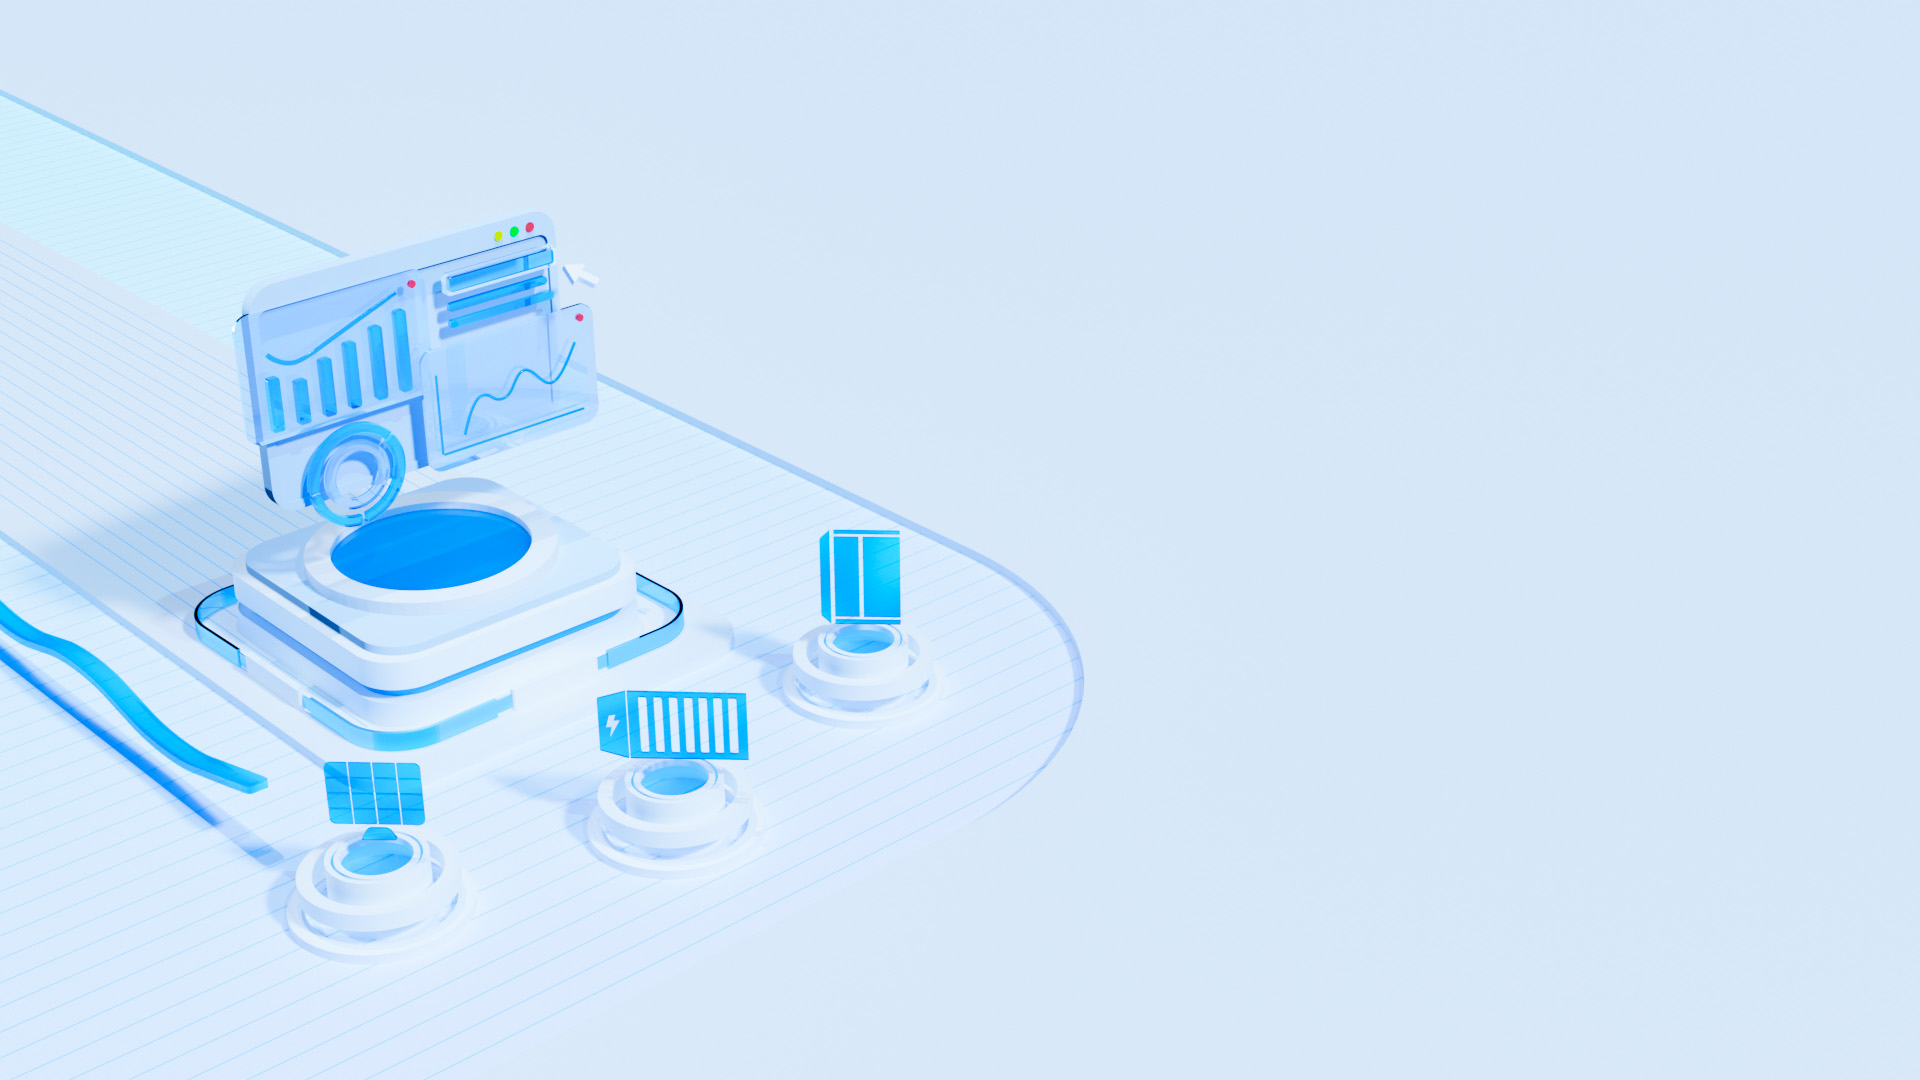
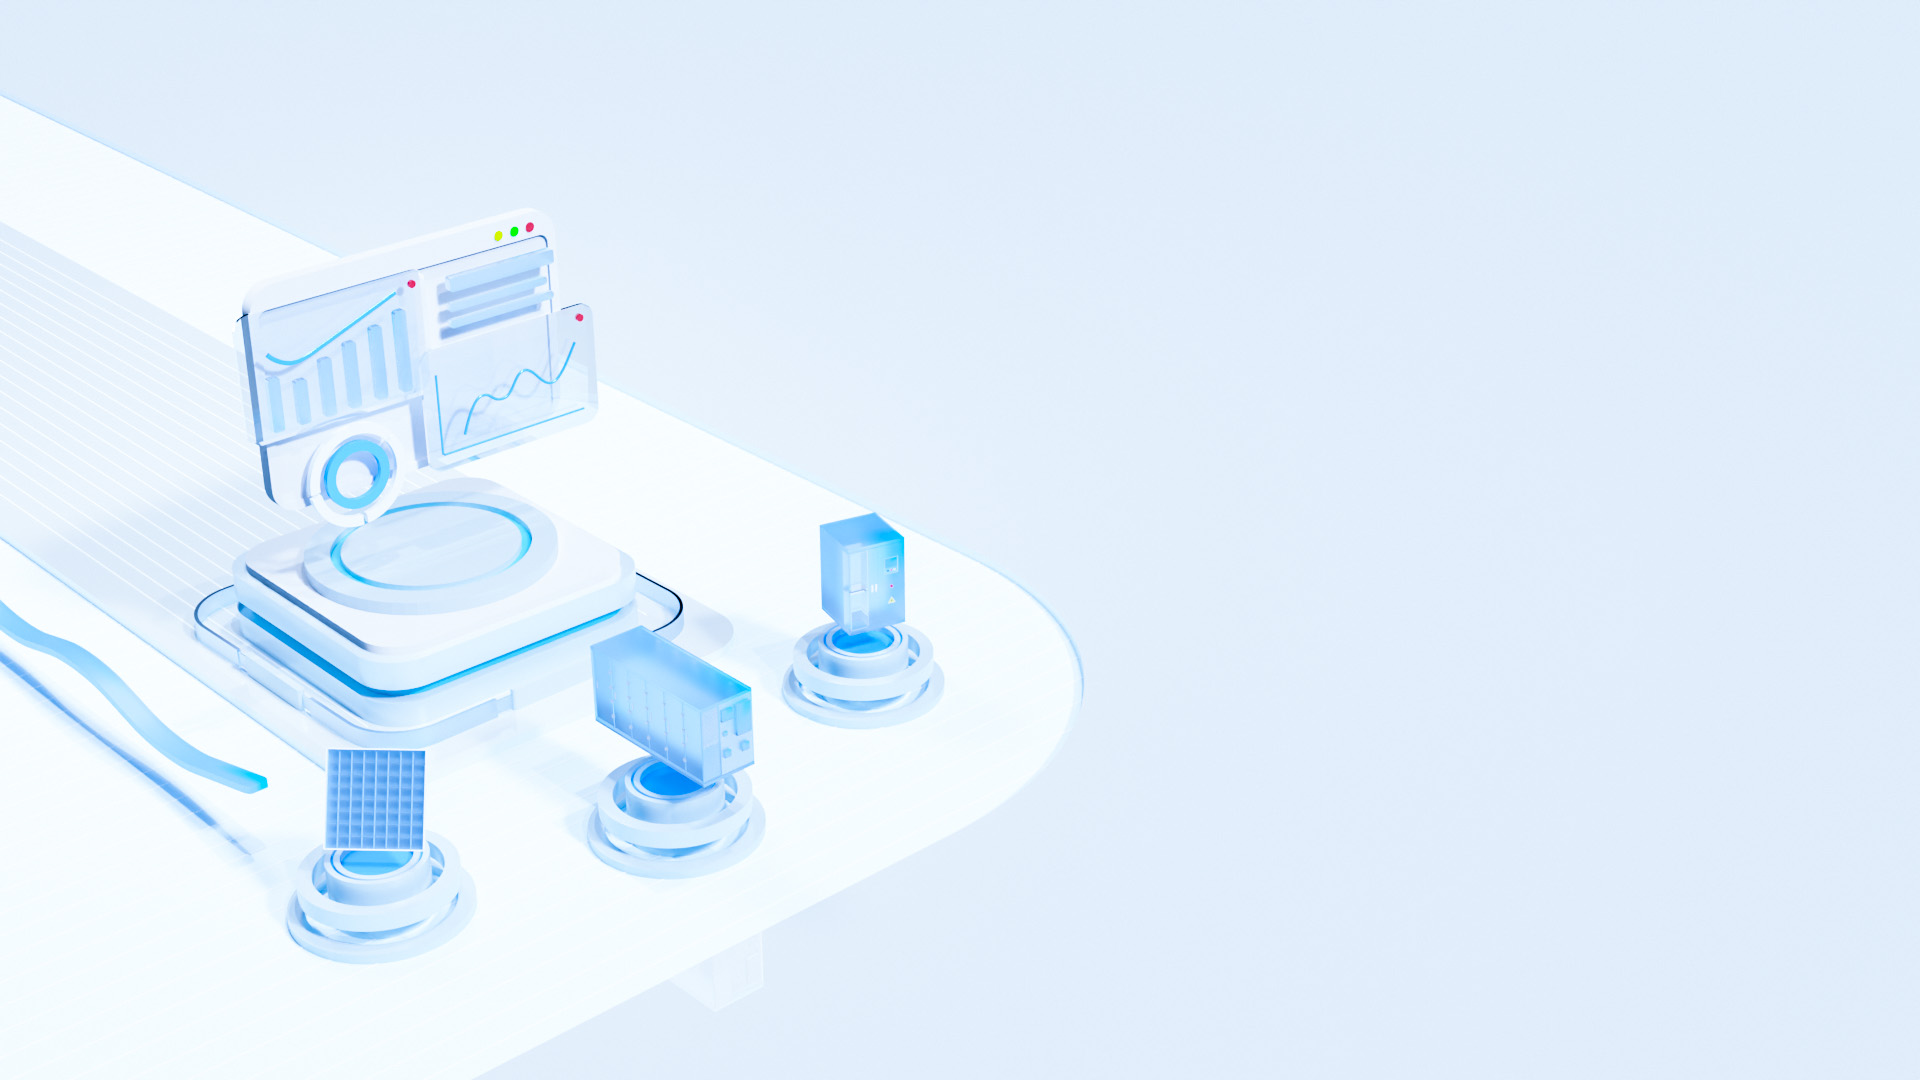
fix:阶段性优化

Changed region(s): [[0.0, 0.0917, 0.5625, 1.0]]

diff --git a/src/pages/device/energyStorage/components/EnergyBMS/CellHistory.jsx b/src/pages/device/energyStorage/components/EnergyBMS/CellHistory.jsx
@@ -455,7 +455,7 @@ function Com(props) {
         ],
         dataZoom: [{type: "inside"}],
         toolbox: {
-            show: true,
+            show: false,
             right: 25,
             feature: {
                 magicType: {type: ["line", "bar"], title: "", default: "line"},
@@ -469,7 +469,7 @@ function Com(props) {
             {
                 type: 'value',
                 splitLine: {
-                    show: false,
+                    show: true,
                     lineStyle: {
                         color: [token.microgridsLine], // 网格线颜色
                         width: 1, // 网格线宽度

diff --git a/src/pages/statistics/dataComparison/index.jsx b/src/pages/statistics/dataComparison/index.jsx
@@ -345,7 +345,7 @@ function Com(props) {
     ],
     dataZoom: [{ type: "inside" }],
     toolbox: {
-      show: true,
+      show: false,
       right: 25,
       feature: {
         magicType: { type: ["line", "bar"], title: "", default: "line" },
